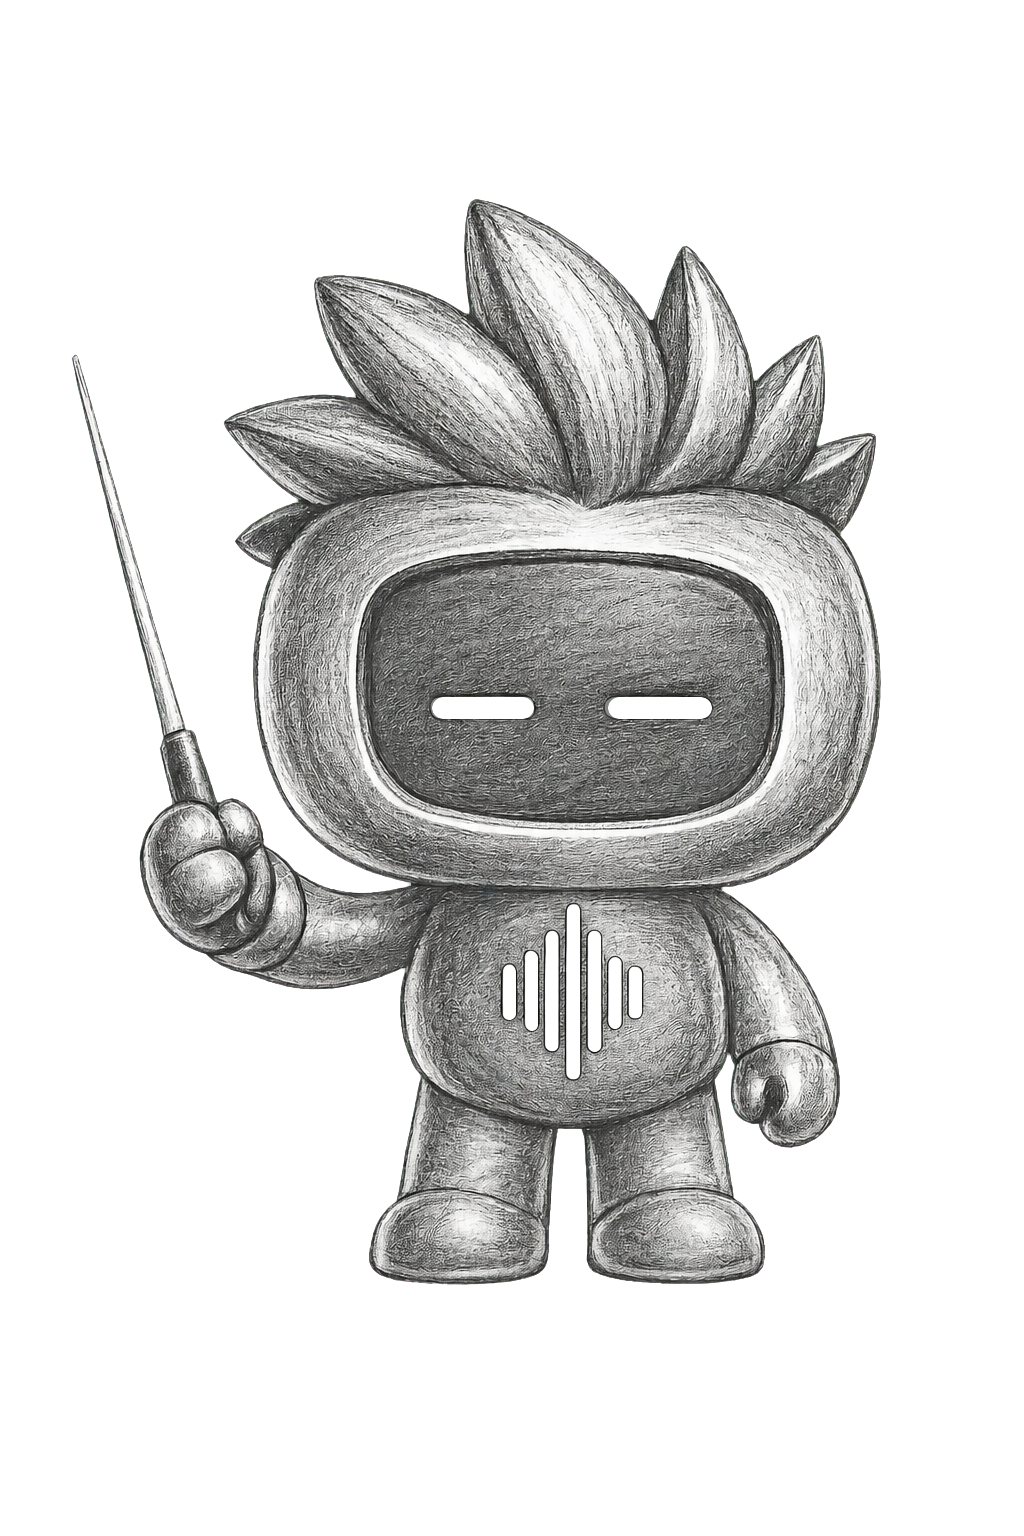
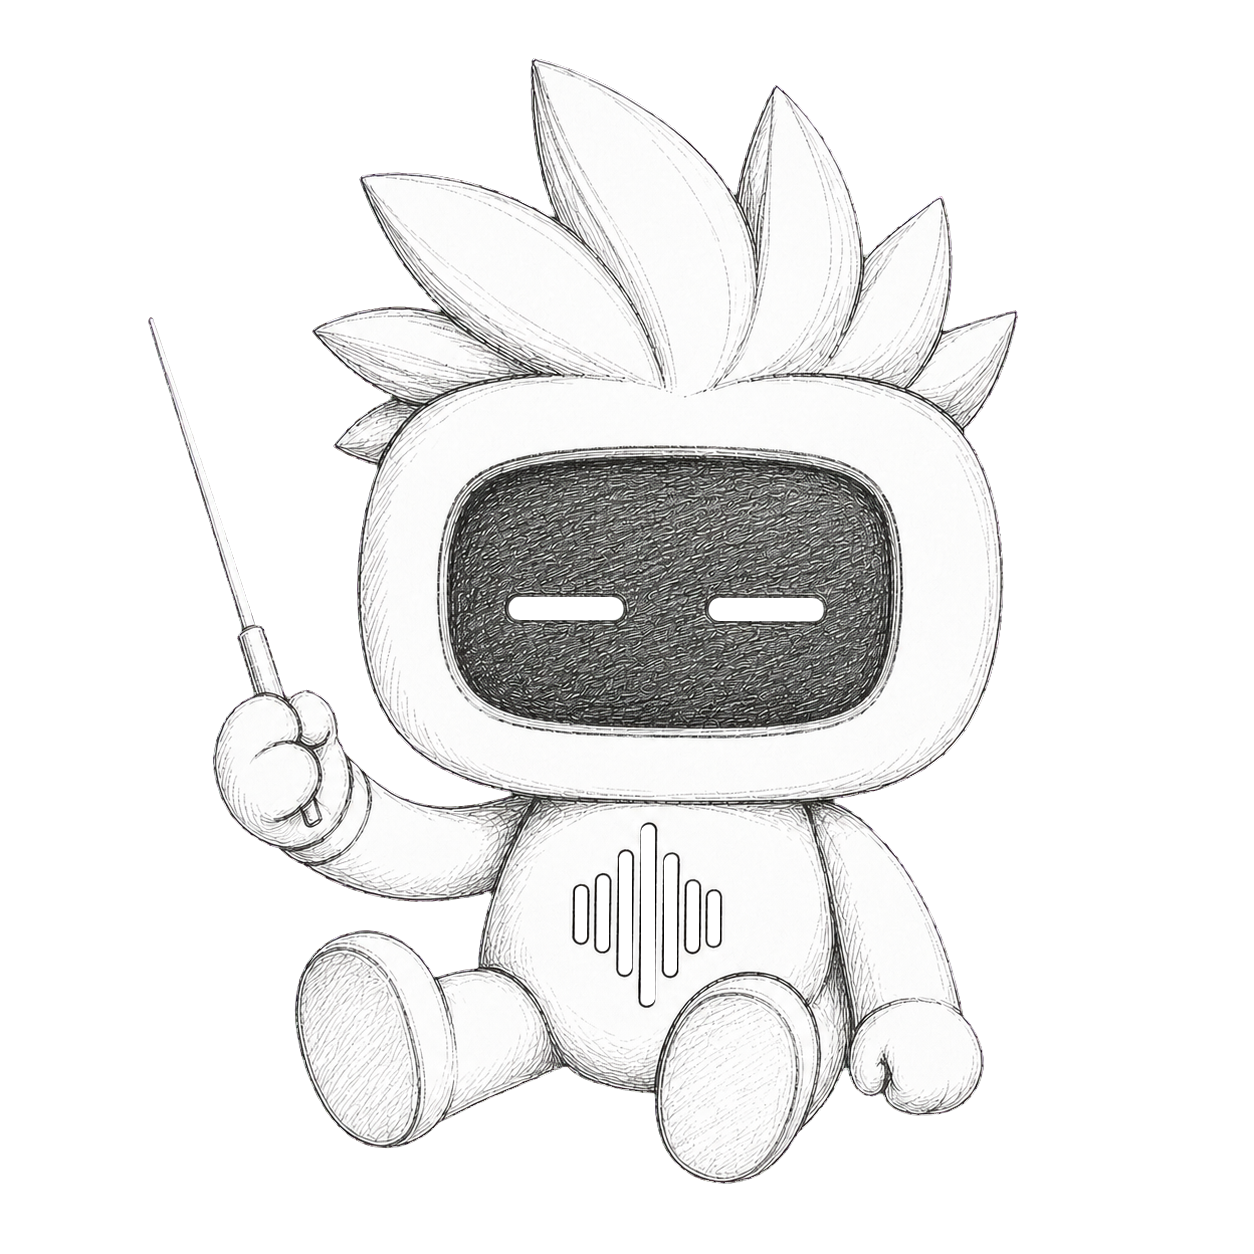
Use seated graphite Maestro mascot

diff --git a/maestro.html b/maestro.html
@@ -60,7 +60,7 @@
   <link rel="preconnect" href="https://fonts.gstatic.com" crossorigin />
   <link href="https://fonts.googleapis.com/css2?family=Bodoni+Moda:wght@400&amp;family=Inter:wght@400;500;600&amp;display=swap" rel="stylesheet">
   <link rel="stylesheet" href="assets/css/site.css?v=polish-2" />
-  <link rel="stylesheet" href="assets/css/pages.css?v=maestro-sketch-1" />
+  <link rel="stylesheet" href="assets/css/pages.css?v=maestro-sketch-2" />
   <script defer src="assets/js/site-motion.js?v=polish-2"></script>
 </head>
 
@@ -124,8 +124,8 @@
         </div>
         <figure class="maestro-product-pet" aria-hidden="true">
           <picture>
-            <source type="image/webp" srcset="assets/images/pet-260.webp 260w, assets/images/pet-520.webp 520w" sizes="(max-width: 560px) 145px, (max-width: 900px) 160px, 175px" />
-            <img src="assets/images/pet-transparent.png" width="1024" height="1536" alt="" loading="lazy" decoding="async" />
+            <source type="image/webp" srcset="assets/images/pet-260.webp 260w, assets/images/pet-520.webp 520w" sizes="(max-width: 560px) 113px, (max-width: 900px) 124px, 135px" />
+            <img src="assets/images/pet-transparent.png" width="1254" height="1254" alt="" loading="lazy" decoding="async" />
           </picture>
           <span class="maestro-baton-spark">
             <i></i><i></i><i></i><i></i><i></i><i></i><i></i><i></i>

diff --git a/assets/css/pages.css b/assets/css/pages.css
@@ -499,7 +499,7 @@ sup {
 
 .maestro-product-intro {
   display: grid;
-  grid-template-columns: minmax(0, 720px) minmax(150px, 175px);
+  grid-template-columns: minmax(0, 720px) minmax(116px, 135px);
   gap: 0;
   align-items: end;
   width: min(100%, 895px);
@@ -512,9 +512,9 @@ sup {
 
 .maestro-product-pet {
   position: relative;
-  width: clamp(150px, 14vw, 175px);
-  aspect-ratio: 0.94;
-  margin: 0 0 0 -8px;
+  width: clamp(116px, 10.5vw, 135px);
+  aspect-ratio: 1.1;
+  margin: 0 0 0 -6px;
   overflow: hidden;
   isolation: isolate;
   justify-self: start;
@@ -522,13 +522,13 @@ sup {
 
 .maestro-baton-spark {
   position: absolute;
-  top: 15.2%;
-  left: 7.1%;
+  top: 22.5%;
+  left: 11.8%;
   z-index: 2;
   width: 30px;
   height: 30px;
   pointer-events: none;
-  transform: translate(-50%, -50%);
+  transform: translate(-50%, -50%) scale(0.75);
 }
 
 .maestro-baton-spark::before,
@@ -636,7 +636,7 @@ sup {
   display: block;
   width: 100%;
   height: auto;
-  transform: translateY(-12.3%);
+  transform: translateY(-4.6%);
 }
 
 .maestro-workspace-preview {
@@ -987,7 +987,7 @@ sup {
   }
 
   .maestro-product-pet {
-    width: 160px;
+    width: 124px;
     margin-left: 0;
     justify-self: center;
   }
@@ -1080,7 +1080,7 @@ sup {
   }
 
   .maestro-product-pet {
-    width: 145px;
+    width: 113px;
   }
 
   .parallax-fingerprint-visual {
